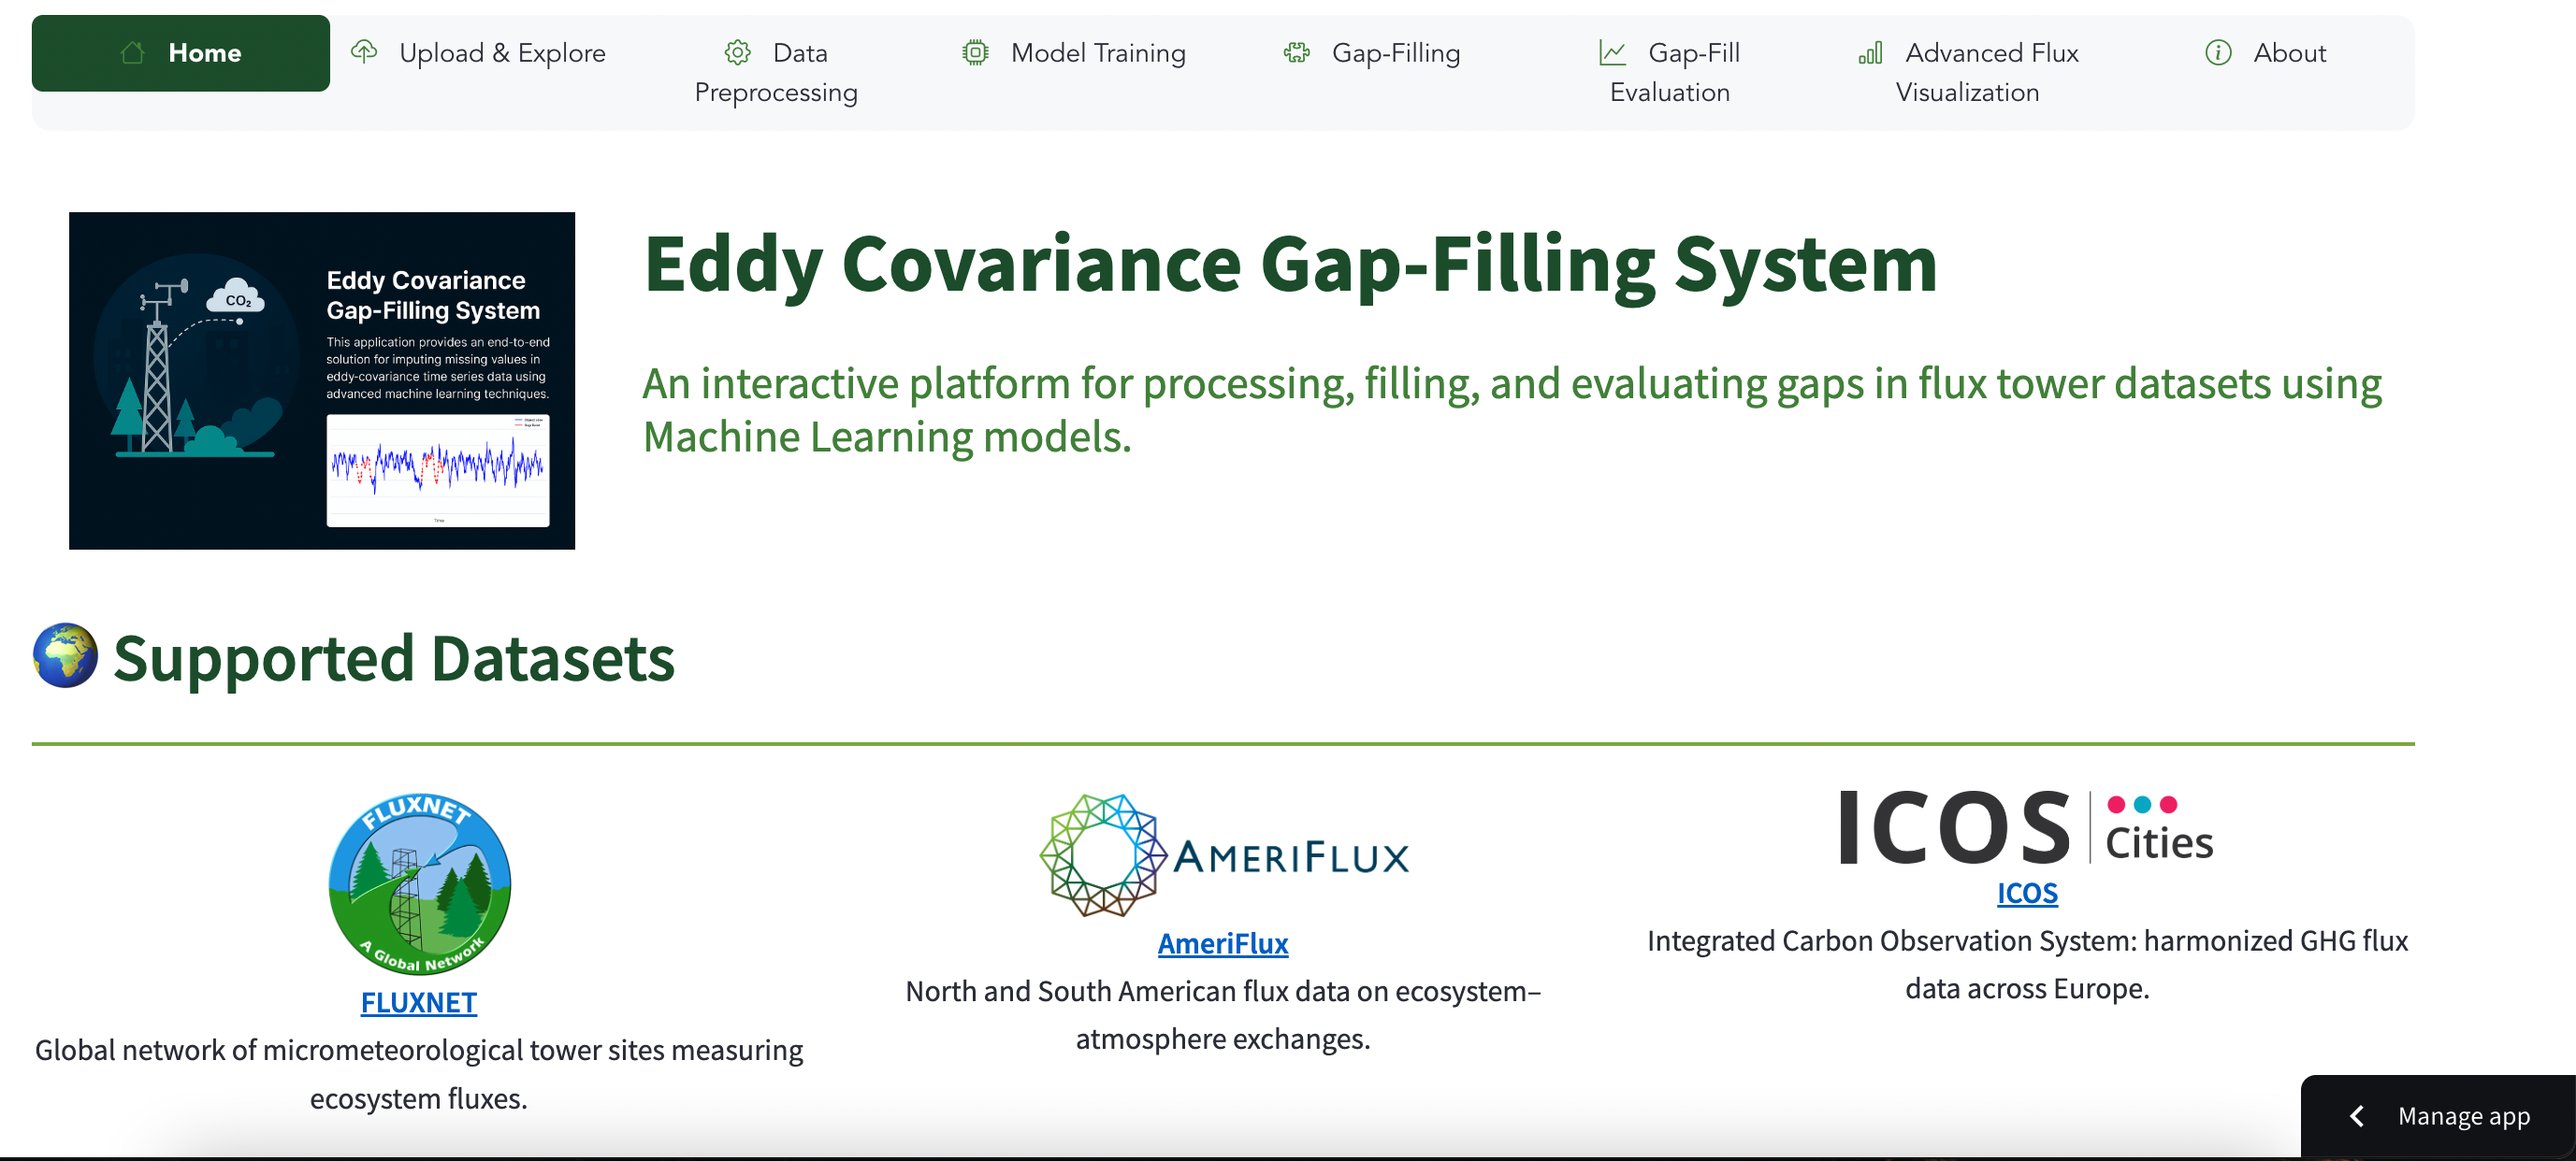
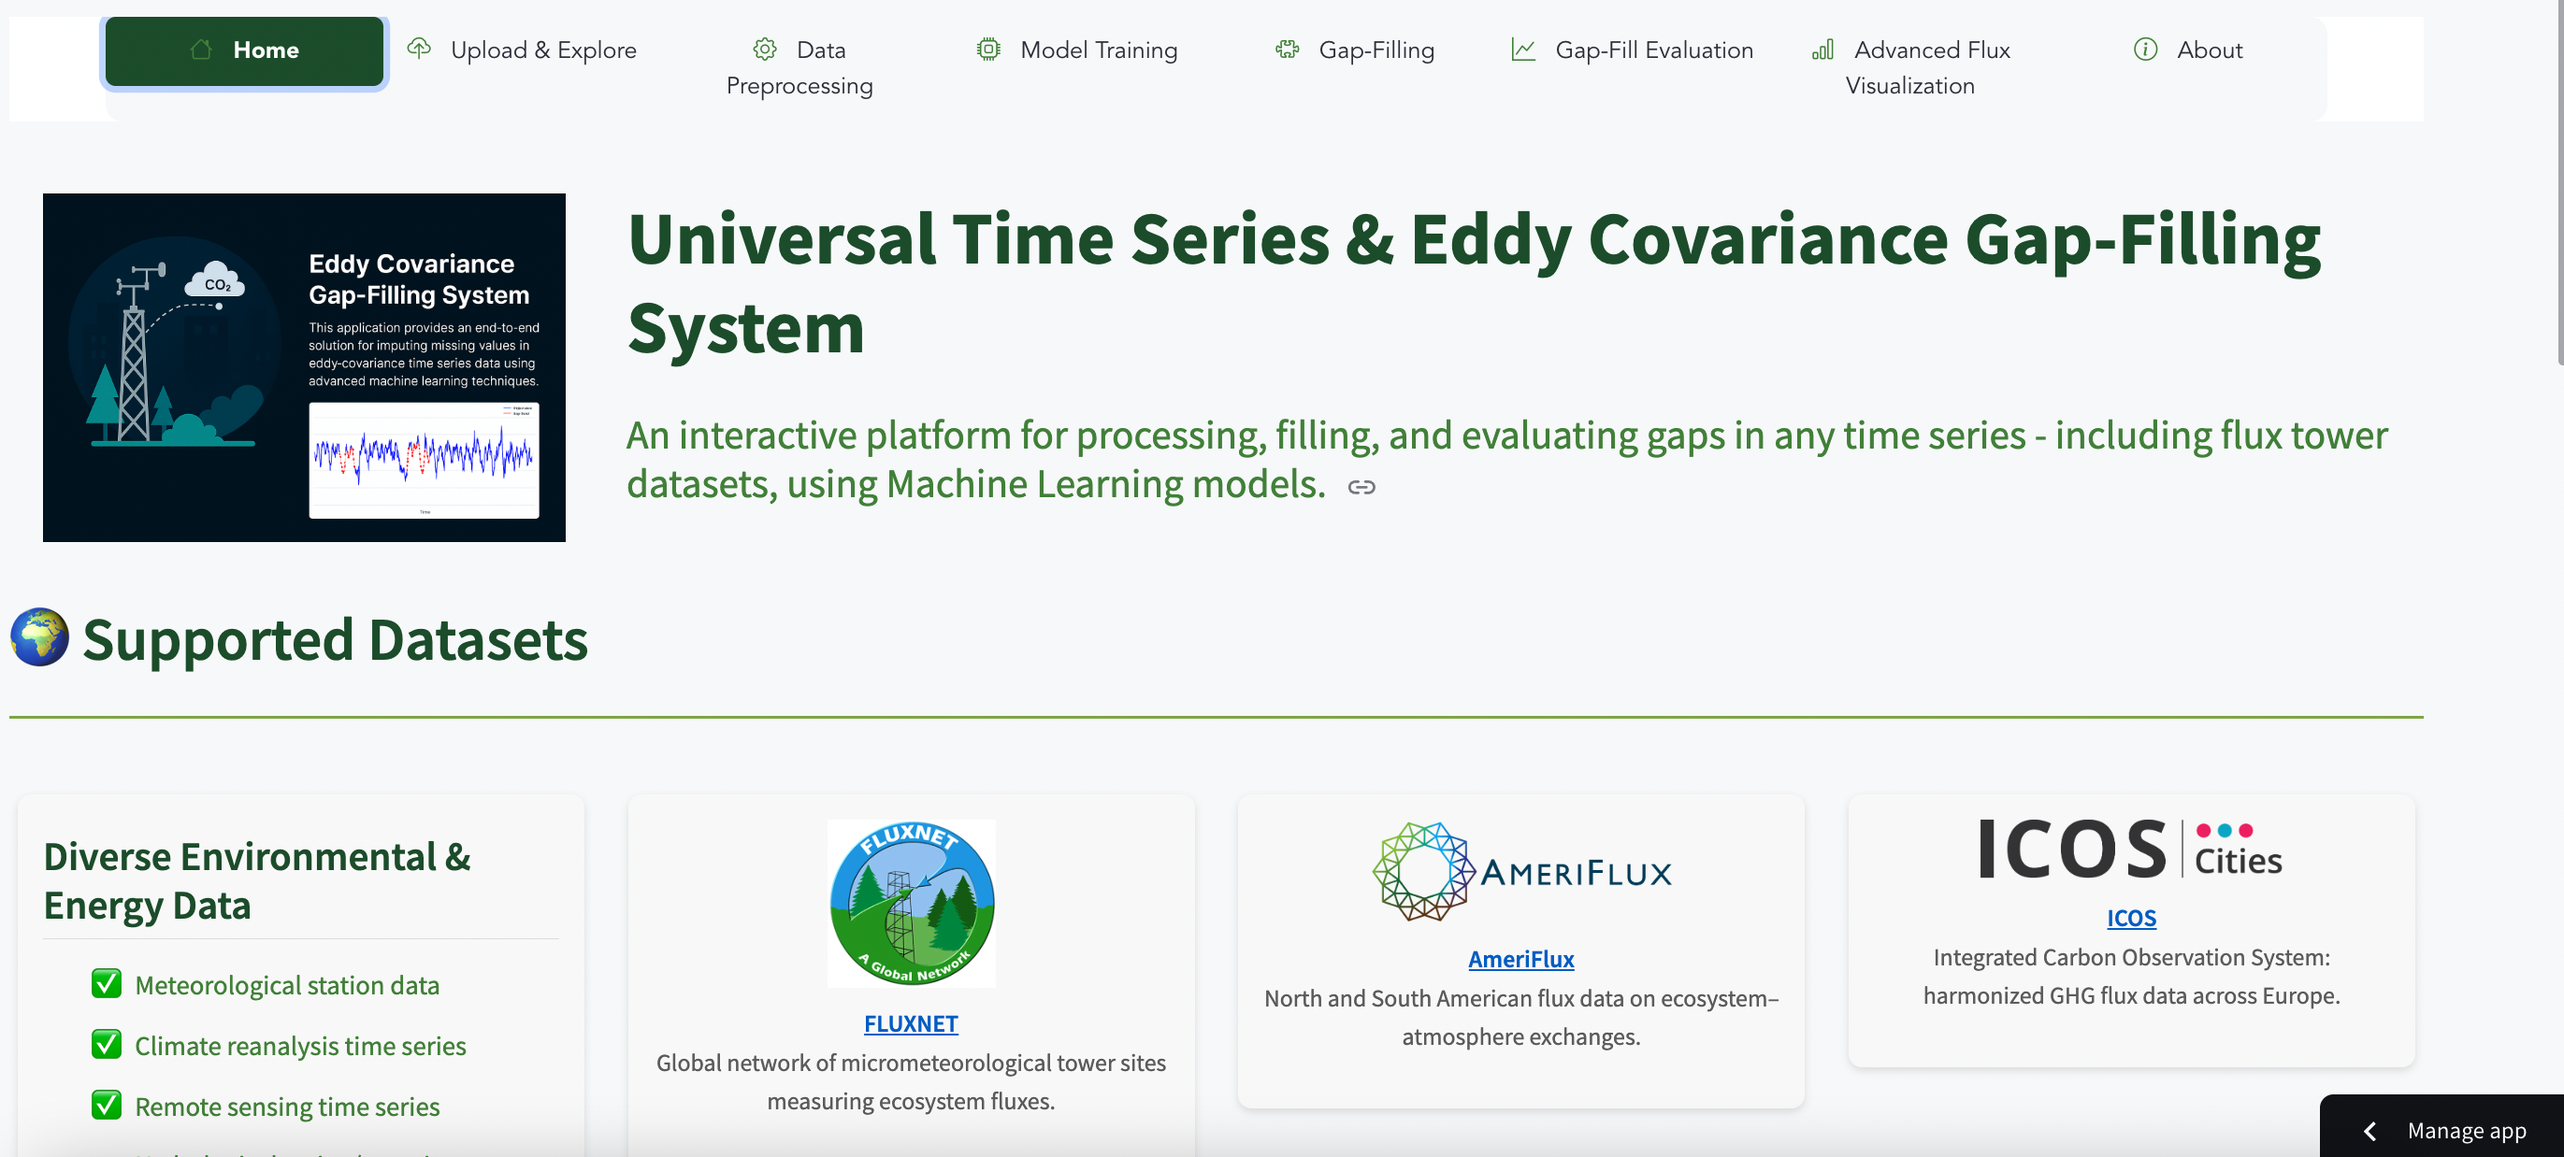
Upgrade max

diff --git a/app/eddy_app.py b/app/eddy_app.py
@@ -347,7 +347,7 @@ if st.session_state.active_tab == "Home":
         st.markdown("""
         <div class="feature-card">
             <h3>🔍 Gap Detection & Filling</h3>
-            <p>Automatically identify and fill missing CO₂ and other flux data from eddy covariance towers using advanced machine learning techniques.</p>
+            <p>Pinpoints missing observations and reconstructs them with ML-driven estimates—preserving the rhythm and seasonality of your time-series..</p>
         </div>
         """, unsafe_allow_html=True)
 
@@ -355,7 +355,7 @@ if st.session_state.active_tab == "Home":
         st.markdown("""
         <div class="feature-card">
             <h3>📊 Advanced Analytics</h3>
-            <p>Analyze patterns across eddy covariance variables with interactive visualizations and comprehensive statistical tools.</p>
+            <p>Explore patterns, trends, and anomalies in flux and environmental data using interactive plots and robust statistical summaries.</p>
         </div>
         """, unsafe_allow_html=True)
 
@@ -363,7 +363,7 @@ if st.session_state.active_tab == "Home":
         st.markdown("""
         <div class="feature-card">
             <h3>🧠 Machine Learning Models</h3>
-            <p>Compare modeling strategies using Random Forest and XGBoost with comprehensive validation metrics.</p>
+            <p>Leverage state-of-the-art models like Random Forest and XGBoost to predict missing values, with detailed performance metrics and visual diagnostics.</p>
         </div>
         """, unsafe_allow_html=True)
         
@@ -500,7 +500,7 @@ if st.session_state.active_tab == "Upload & Explore":
     # Page header
     colored_header(
         label="Data Upload & Exploration",
-        description="Import and analyze your eddy covariance data",
+        description="Import and understand your data",
         color_name="green-70"
     )
 
@@ -510,7 +510,7 @@ if st.session_state.active_tab == "Upload & Explore":
         st.subheader("Upload Data")
         #uploaded_file = st.file_uploader("Choose a CSV or txt file", type=["csv", "txt"])
         #use_example = st.checkbox("Use example dataset", value=False)
-        upload_method = st.radio("Choose data upload method:", ["Upload CSV", "Upload ZIP", "Use example dataset"])
+        upload_method = st.radio("Choose data upload format:", ["Upload CSV", "Upload ZIP", "Use example dataset"])
         
         if upload_method == "Upload CSV":
             uploaded_file = st.file_uploader("📄 Upload CSV or TXT", type=["csv", "txt"])
@@ -650,7 +650,7 @@ elif st.session_state.active_tab == "Data Preprocessing":
     # Page header
     colored_header(
         label="Data Preprocessing",
-        description="Prepare your eddy covariance data",
+        description="Prepare your data",
         color_name="green-70"
     )
 
@@ -682,17 +682,32 @@ elif st.session_state.active_tab == "Data Preprocessing":
                 elif outlier_method == "Modified Z-score":
                     mod_z_threshold = st.slider("Modified Z-score threshold", 3.0, 10.0, 3.5, 0.1)
                     
-            apply_qc_flags = st.checkbox("Apply existing QC flags", value=False)
-            qc_columns = [col for col in st.session_state.data.columns if col.lower().endswith('qc')]
-            if apply_qc_flags and qc_columns:
-                qc_threshold = st.number_input(
-                    "Maximum acceptable QC flag value:",
-                    min_value=0,       # Ensures non-negative values
-                    value=1,            # Default value (previously index=1)
-                    step=1,             # Integer steps
-                    help="0 = Highest quality, 1 = Medium quality, 2 = Low quality (or custom scale)"
+            apply_qc_flags = st.checkbox("Apply quality-control filter", value=False)
+
+            if apply_qc_flags:
+
+                # 1⃣  Pick one or more columns that *contain* QC / flag values
+                qc_columns = st.multiselect(
+                    "Select QC / flag column(s):",
+                    options=st.session_state.data.columns.tolist()
                 )
-        
+                if qc_columns:
+                    # 3⃣  For each chosen QC column, let user set a threshold
+                    qc_thresholds = {}
+                    for qc_col in qc_columns:
+                        qc_min = int(st.session_state.data[qc_col].min(skipna=True))
+                        qc_max = int(st.session_state.data[qc_col].max(skipna=True))
+                        qc_thresholds[qc_col] = st.slider(
+                            f"Maximum acceptable value for **{qc_col}**:",
+                            min_value=qc_min,
+                            max_value=qc_max,
+                            value=min(qc_max, 1),
+                            step=1,
+                            help = "0 = Highest quality, 1 = Medium quality, 2 = Low quality (or custom scale).Please, ensure the correct QC value. Check metadata out!"
+                        )   
+                else:
+                    st.info("Select at least one QC column to proceed.")
+       
         #For Outliers
         flux_vars = ["date", "time", "datetime", "co2_flux_qc", "month"]
         actual_flux_cols_out = [col for col in st.session_state.data.columns if col not in flux_vars]
@@ -705,7 +720,7 @@ elif st.session_state.active_tab == "Data Preprocessing":
         col1, col2 = st.columns([1, 1])
 
         with col1:
-            if st.button("Preprocess Data", key="preprocess_button"):
+            if st.button("⚙ Preprocess Data", key="preprocess_button"):
                 try:
                     with st.spinner("Preprocessing data..."):
                         # Apply preprocessing based on selected options
@@ -1390,7 +1405,7 @@ if st.session_state.active_tab != "Home":
     st.markdown(
         """
         <div class='footer'>
-            <p>© 2025 Max Anjos • Eddy Covariance Gap-Filling System | Version 1.0</p>
+            <p>© 2025 Max Anjos • Eddy System | Version 1.0</p>
         </div>
         """,
         unsafe_allow_html=True

diff --git a/README.md b/README.md
@@ -1,18 +1,20 @@
 # Eddy Covariance Gap-Filling System 🌱
 
-![Eddy Covariance Gap-Filling System](static/eddy_photo.png)
+![Universal Time Series & Eddy Covariance Gap-Filling System](static/eddy_photo.png)
 
 ---
 
-### 🚀 An interactive platform for processing, filling, and evaluating gaps in flux tower datasets using Machine Learning.
+### 🚀 An interactive platform for processing, filling, and evaluating gaps in any time series - including flux tower datasets, using Machine Learning.
 
-This app provides an end-to-end solution for working with **eddy covariance data**, including:
+This app provides an end-to-end solution for working with **time serie data**, including:
 
-✅ Uploading and preprocessing raw flux tower data (FLUXNET, AmeriFlux, ICOS)  
-✅ Training gap-filling models using advanced ML techniques (XGBoost, Random Forest)  
-✅ Visualizing filled vs. original data interactively  
-✅ Evaluating model performance (MAE, RMSE, R²)  
-✅ Supporting external integrations (e.g., weather, traffic, satellite data)
+✅ Uploading and preprocessing diverse enviromental and enery time series and raw flux tower data such as FLUXNET, AmeriFlux, and ICOS.
+✅ Training gap-filling models using advanced ML techniques (XGBoost, Random Forest).  
+✅ Visualizing filled vs. original data interactively. 
+✅ Evaluating model performance (MAE, RMSE, R²).
+✅ Advanced flux visualization.
+
+![Take a look:](static/eddy_output.png)
 
 ---
 
@@ -23,14 +25,13 @@ This app provides an end-to-end solution for working with **eddy covariance data
 | [FLUXNET](https://fluxnet.org/)   | Global network of micrometeorological tower sites measuring ecosystem fluxes.                    |
 | [AmeriFlux](https://ameriflux.lbl.gov/) | North and South American flux data on ecosystem–atmosphere exchanges.                         |
 | [ICOS](https://www.icos-cp.eu/)         | Integrated Carbon Observation System: harmonized GHG flux data across Europe.                   |
+| Diverse Enviromental and Energy Data    | Meteorological, climate reanalysis, remote sensing, hidrology, energey generatation and etc.    |
 
 ---
 
 ### 🔧 Features
 
 - Modular machine learning architecture with fallback models
-- Detailed energy balance, carbon flux, and Bowen ratio visualizations
-- Integration-ready design for adding external predictors (weather, traffic, satellite data)
 - Deployable via [Streamlit Cloud](https://streamlit.io/cloud)
 
 ---
